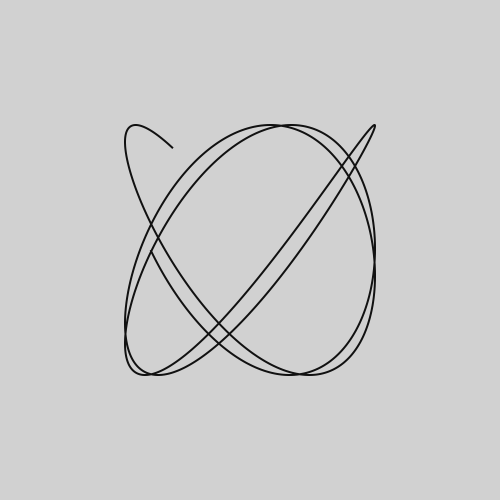
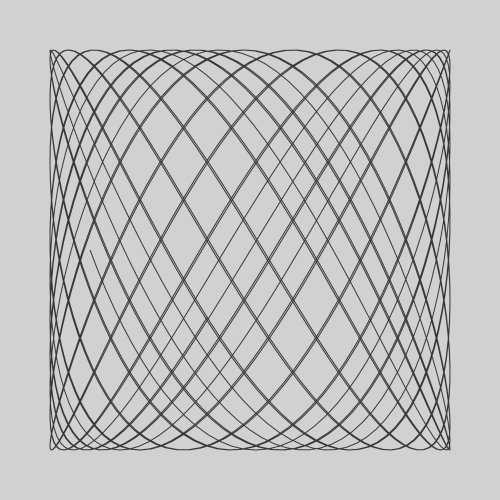
Better

Changed region(s): [[0.09, 0.09, 0.9, 0.9]]

diff --git a/_posts/2015-02-06-lissajous.html b/_posts/2015-02-06-lissajous.html
@@ -15,9 +15,10 @@ var svg = d3.select("body").append("svg")
 var spiral = svg.append("path")
     .attr("fill", "none")
     .attr("stroke", "#111")
-    .attr("stroke-width", 2);
+    .attr("stroke-opacity", 0.8)
+    .attr("stroke-width", 1);
 
-var range = d3.range(0, 8 * Math.PI, 0.01);
+var range = d3.range(0, 64 * Math.PI, 0.1);
 
 var d = 0,
     a = 0,
@@ -25,11 +26,11 @@ var d = 0,
 
 d3.timer(function(t) {
     spiral.attr("d", "M" + range.map(function(p) {
-        var a = (Math.sin(t / 5000) + 1) / 2,
-            b = (Math.cos(t / 7000) + 1) / 2;
+        var a = (Math.sin(t / 200000) + 1) / 2,
+            b = (Math.cos(t / 150000) + 1) / 2;
         return [
-            width / 4 * Math.sin(a * p + Math.cos(t / 1000)),
-            height / 4 * Math.sin(b * p)
+            0.4 * width * Math.sin(a * p + Math.cos(t / 4000)),
+            0.4 * height * Math.sin(b * p)
         ];
     }).join("L"));
 })
